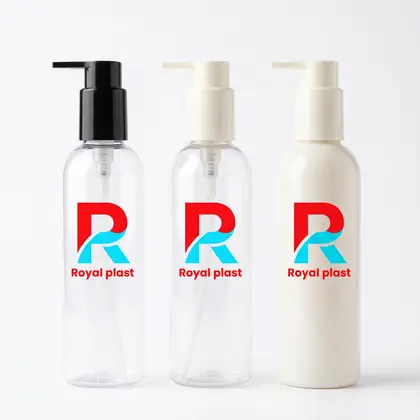
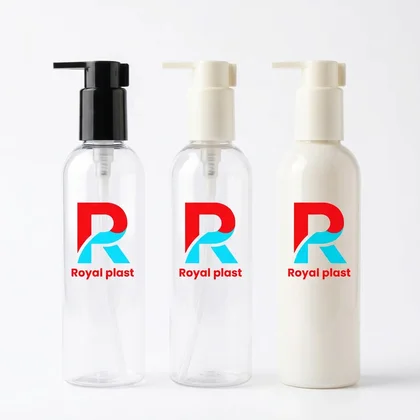
RP-075: lock pump heads on image 139
Claude-Session: https://claude.ai/code/session_01RHpAwk7S9yFShcnyhoKaQD

diff --git a/app.js b/app.js
@@ -55,7 +55,7 @@ function fullTitle(p){return `${t(p.cat=='jar'?'jar':'bottle')} ${sizesTxt(p)}`.
 function sub(p){if(p.nospec)return t('nospec');const a=[];if(p.necks.length)a.push(p.necks.map(n=>'NK'+n).join(' / '));p.caps.forEach(c=>a.push(capName(c)));p.extra.forEach(e=>a.push(lang=='ar'?e.ar:e.en));return a.join(' · ')}
 const colTxt=p=>p.colors.map(c=>t(c)).join('، ').replace(/،/g,lang=='ar'?'، ':', ');
 const dotsHTML=p=>`<span class="dots">${p.colors.map(c=>`<i class="dot d-${c}" title="${t(c)}"></i>`).join('')}</span>`;
-const IMGV='20261109y';const imgU=n=>`img/${n}.webp?v=${IMGV}`,thU=n=>`t/${n}.webp?v=${IMGV}`;
+const IMGV='20261109z';const imgU=n=>`img/${n}.webp?v=${IMGV}`,thU=n=>`t/${n}.webp?v=${IMGV}`;
 function reveal(root){const io=new IntersectionObserver(es=>es.forEach(e=>{if(e.isIntersecting){e.target.classList.add('in');io.unobserve(e.target)}}),{threshold:.12,rootMargin:'0px 0px -40px 0px'});
  (root||document).querySelectorAll('.rv:not(.in)').forEach(el=>io.observe(el))}
 function applyLang(){document.documentElement.lang=lang;document.documentElement.dir=lang=='ar'?'rtl':'ltr';
